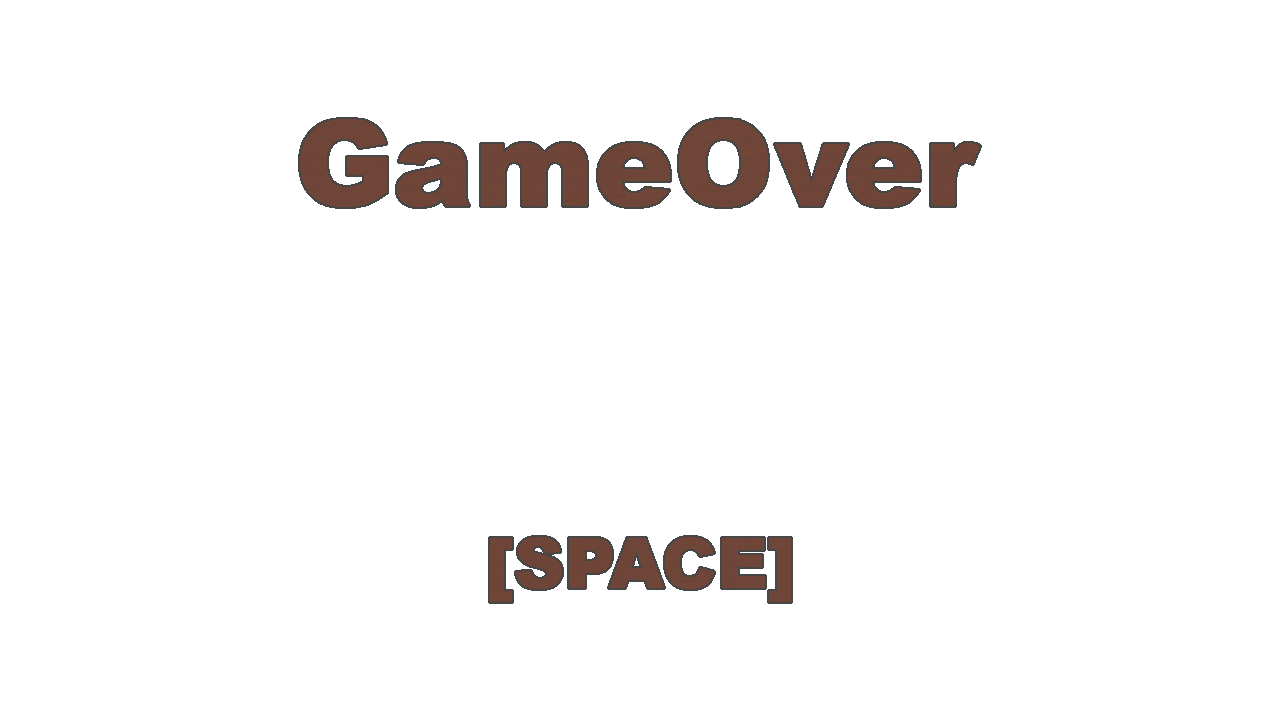
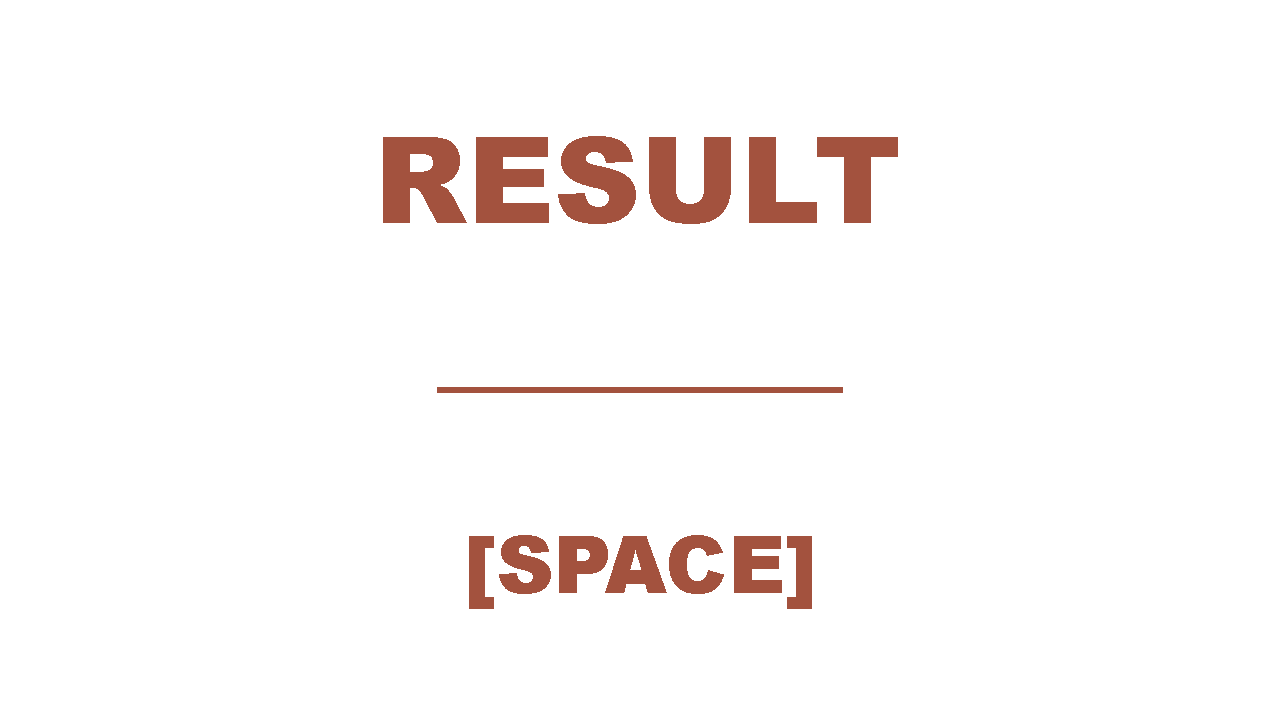
リザルト画面追加

Changed region(s): [[0.2188, 0.1528, 0.7812, 0.3361], [0.3438, 0.7333, 0.6562, 0.8556], [0.3438, 0.5194, 0.6562, 0.55]]

diff --git a/slide puzzle/App/scene/GameScene.cpp b/slide puzzle/App/scene/GameScene.cpp
@@ -6,7 +6,7 @@
 #include"Shape.h"
 #include"StageSelect.h"
 #include"SceneManager.h"
-#include"TitleScene.h"
+#include "ResultScene.h"
 GameScene::GameScene()
 {}
 GameScene::~GameScene()
@@ -73,7 +73,7 @@ void GameScene::Update()
 
 		if (sceneChange_->GetOutEndFlag())
 		{
-			BaseScene* scene = new TitleScene();
+			BaseScene* scene = new ResultScene();
 			sceneManager_->SetNextScene(scene);
 		}
 
@@ -95,10 +95,10 @@ void GameScene::Draw()
 
 	player->ScoreDraw();
 
-	if (player->GetDeadFlag() == true)
+	/*if (player->GetDeadFlag() == true)
 	{
 		Sprite::Get()->Draw(gameoverGraph, Vec2(), static_cast<float>(window_width), static_cast<float>(window_height));
-	}
+	}*/
 
 	sceneChange_->Draw();
 }
